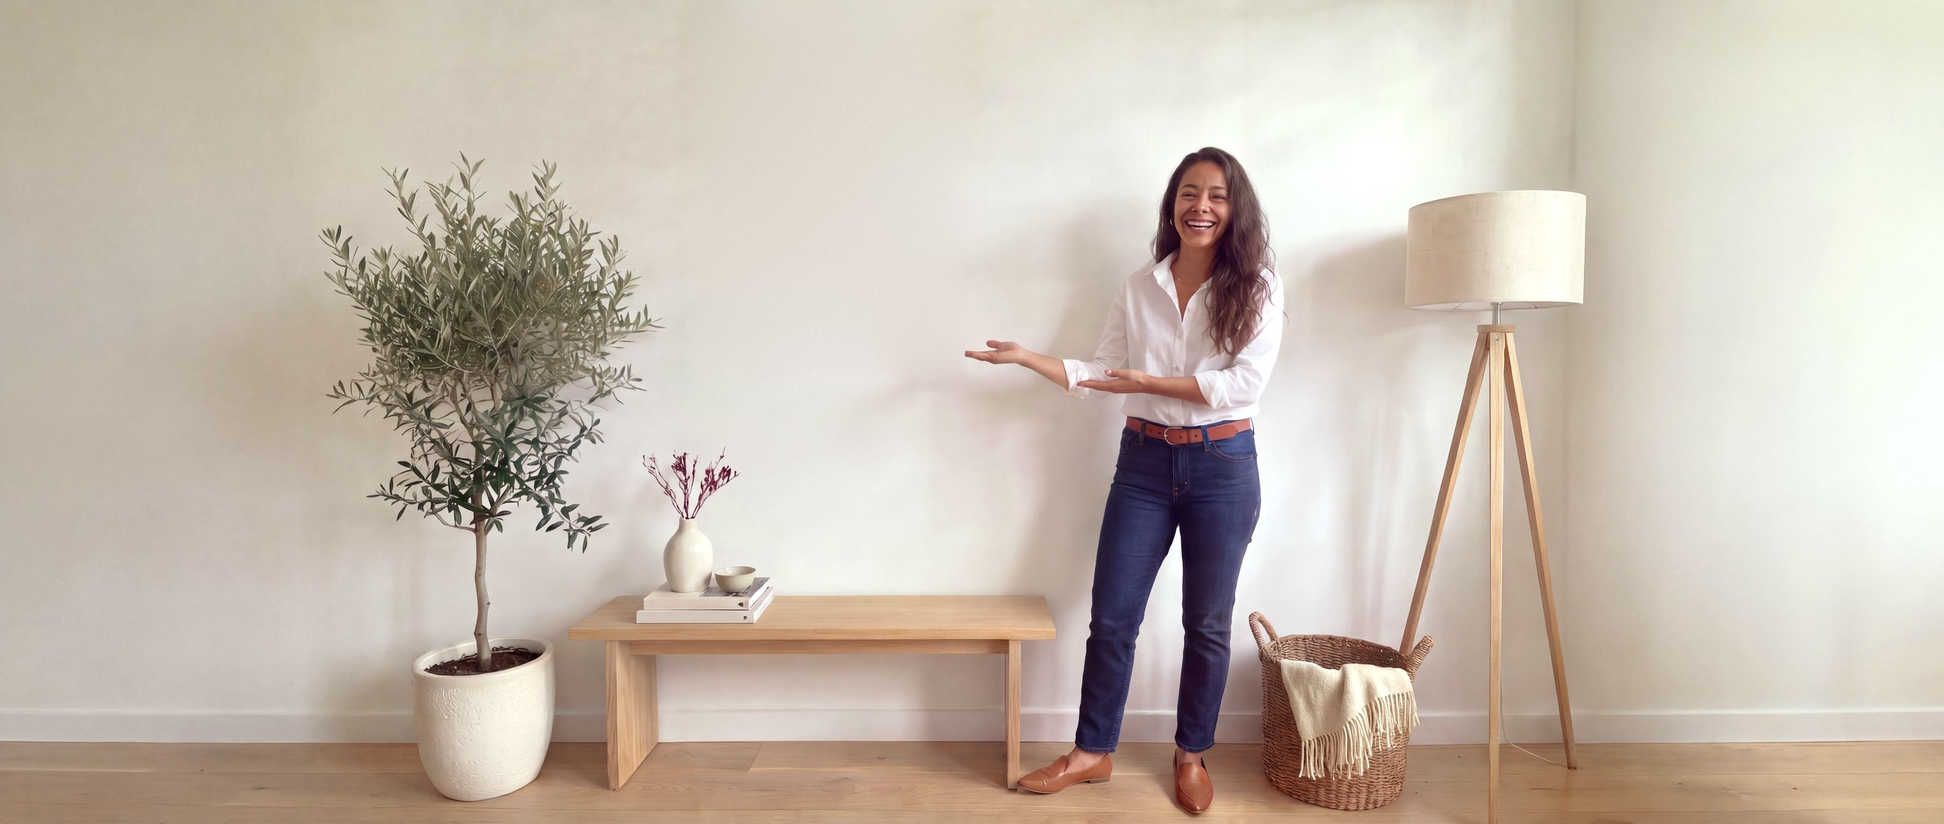
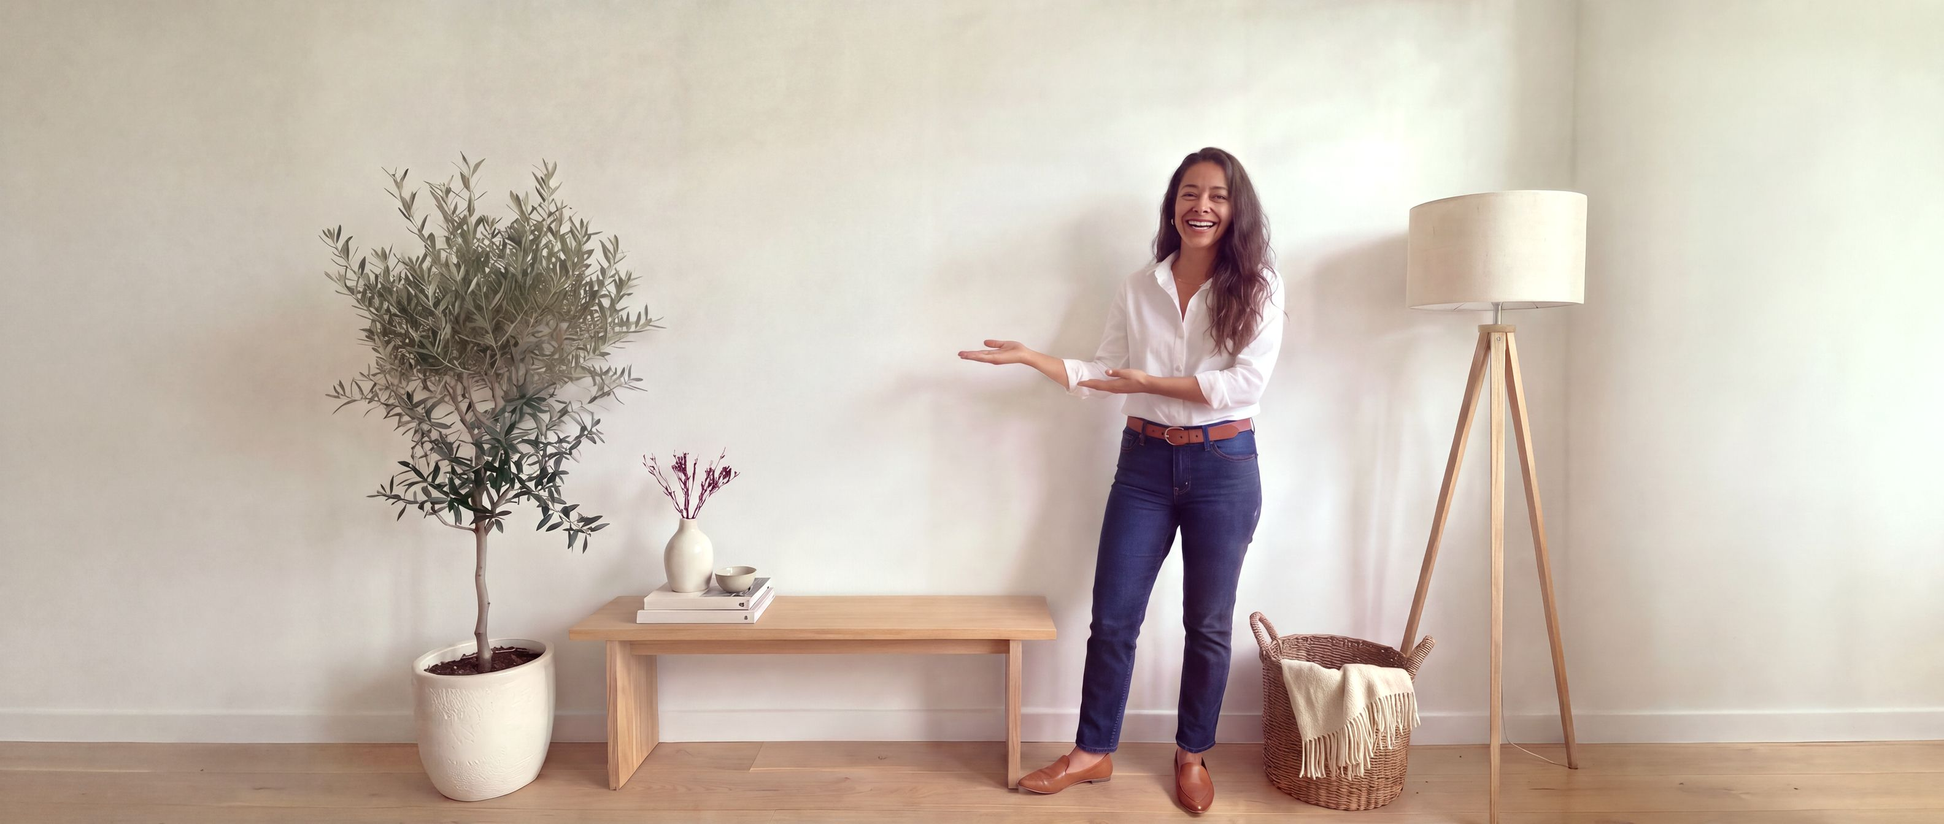
feat(fiche-3d): version 26, sa main entière devant le tableau, jour reculé
Retours de Walid sur la version 25 :

- 75 × 100 et 90 × 120 : photos refaites par Gemini (le rectangle blanc
  avait recouvert sa main avant la génération) ; recalées sur la version
  25 à 3 px près (0,25 cm), les places du tableau restent. Masques
  BiRefNet, balance, lumière et calque refaits : sa main entière passe
  devant le tableau agrandi.
- Bordure avec cadre : le plan du jour recule de 6,4 à 9 cm de haut, la
  caméra de 12 à 17 cm (« trop zoomé », « effet dessin animé ») ; tests
  ajustés (plan de 8 à 10 cm, tranche d'au moins 4,5 % de la hauteur).
- README (décision 10), tickets 07 et 12.

diff --git a/.scratch/fiche-3d/prototype/src/staging.js b/.scratch/fiche-3d/prototype/src/staging.js
@@ -44,16 +44,16 @@ const EDGE = { yaw: 38 * DEG, pitch: -6 * DEG, fill: 0.74, side: 0.8, front: 0.6
    ne se voit que dans le jour de 0,6 cm, entre la toile et la paroi du cadre, sous la lèvre qui la
    dépasse. Plan rapproché sur l'angle bas côté lumière, tableau au mur : la caméra se tient de biais
    par rapport à cet angle, `look` vers la tranche éclairée et autant vers le bas. Walid trouvait le
-   gros plan à 6 cm trop serré (10/11 : « on voit que c'est de la 3D ») : la caméra est à 12 cm, le
-   plan fait 6,4 cm de haut, et l'image de l'œuvre n'y est plus grossie au-delà de sa photo en
-   30 × 40. À 15°, la tranche du côté et celle du bas se voient sur toute leur profondeur (2 cm), soit
-   0,46 cm à l'écran, 7 % de sa hauteur ; l'optimum est à 16°, la lèvre en cache le fond au-delà de
-   18°. field : hauteur du plan à l'angle, en cm. spot : place de l'angle sur l'écran, en part de
+   gros plan à 6 cm trop serré (10/11 : « on voit que c'est de la 3D »), puis encore trop zoomé à
+   6,4 cm (version 25 : « effet dessin animé ») : le plan fait 9 cm de haut, la caméra se tient à
+   17 cm, et l'image de l'œuvre y est moins grossie que sa photo en 30 × 40. À 15°, la tranche du
+   côté et celle du bas se voient sur toute leur profondeur (2 cm), soit 0,46 cm à l'écran, 5 % de sa
+   hauteur ; l'optimum est à 16°, la lèvre en cache le fond au-delà de 18°. field : hauteur du plan à l'angle, en cm. spot : place de l'angle sur l'écran, en part de
    la demi-largeur et de la demi-hauteur depuis le milieu ; l'œuvre remplit le reste. Sur un écran
    plus large que `narrow`, l'angle revient vers le milieu, jusqu'au milieu à `wide` (largeur sur
    hauteur) : le cadre prend un côté, l'œuvre l'autre, et la caméra regarde le mur sous le même biais
    que sur un téléphone. Poser l'angle sur le côté d'un écran large la ferait tourner de 36°. */
-const GAP = { look: 15 * DEG, field: 6.4, spot: 0.3, narrow: 1.3, wide: 2.2 }
+const GAP = { look: 15 * DEG, field: 9, spot: 0.3, narrow: 1.3, wide: 2.2 }
 /* Coin du cadre : caméra au-dessus du coin bas, côté lumière. field : petit côté du plan pour un
    30 × 40, en cm ; il s'élargit un peu avec le tableau, pour garder de l'œuvre. spot : place du
    coin sur l'écran, en part de la demi-largeur et de la demi-hauteur depuis le milieu. L'œuvre et

diff --git a/.scratch/fiche-3d/prototype/tests/staging.test.js b/.scratch/fiche-3d/prototype/tests/staging.test.js
@@ -176,9 +176,10 @@ for (const aspect of [...SCREENS, DESK_ZONE]) {
       const forward = unit(sub(view.camera.target, view.camera.position))
       const turn = (Math.acos(-forward[2]) * 180) / Math.PI
       assert.ok(turn <= 32, `la caméra tourne de ${turn.toFixed(1)}° depuis le mur`)
-      // Recul demandé par Walid le 10/11 (« reculez un petit peu ») : 1,5 à 2 fois le gros plan à 3,2 cm.
+      // Recul demandé par Walid le 10/11 (« reculez un petit peu »), puis sur la version 25 (« trop
+      // zoomé », « effet dessin animé » à 6,4 cm) : environ 9 cm de haut à l'écran.
       const field = 2 * onScreen.depth * Math.tan(view.camera.fovY / 2)
-      assert.ok(field >= 4.8 && field <= 7, `plan rapproché : ${field.toFixed(1)} cm de haut à l'écran`)
+      assert.ok(field >= 8 && field <= 10, `plan rapproché : ${field.toFixed(1)} cm de haut à l'écran`)
       // Regard de biais vers la tranche éclairée et vers le bas, de 12 à 18° depuis l'angle : en deçà la
       // tranche s'aplatit, au-delà la lèvre en cache le fond (caméra à 12 cm, la perspective compte).
       const look = sub(view.camera.position, corner)
@@ -198,8 +199,9 @@ for (const aspect of [...SCREENS, DESK_ZONE]) {
         const band = gapBand(view, aspect, above)
         // Ordre de grandeur : jour 0,6 cm, lèvre 0,5 cm devant la toile -> 0,46 cm au plus vue de face.
         assert.ok(band.cm >= 0.4, `${size}, ${above} cm : ${band.cm.toFixed(2)} cm de tranche visibles`)
-        // Au moins 6,5 % de la hauteur : 24 px sur le plus petit écran (553 px visibles, rangée ouverte).
-        assert.ok(band.screen >= 0.065, `${size}, ${above} cm : la tranche ne prend que ${(band.screen * 100).toFixed(1)} % de la hauteur`)
+        // Au moins 4,5 % de la hauteur : 16 px sur le plus petit écran (rangée ouverte), le jour reste
+        // lisible avec le plan reculé à 9 cm (version 26 ; 6,5 % à 6,4 cm).
+        assert.ok(band.screen >= 0.045, `${size}, ${above} cm : la tranche ne prend que ${(band.screen * 100).toFixed(1)} % de la hauteur`)
       }
     }
     // La tranche montrée reçoit la lumière de la pièce : pas un trou noir.

diff --git a/.scratch/fiche-3d/prototype/src/poses.js b/.scratch/fiche-3d/prototype/src/poses.js
@@ -75,18 +75,18 @@ export const POSES = {
     }),
     '75x100': pose('75x100', {
       rect: [2267, 21, 878, 1198],
-      person: [3145, 479, 4184, 2652],
-      head: [3770, 479, 4135, 767],
-      overlay: [2020, 814, 3216, 1320],
-      clean: { left: 1014, right: 1104 },
+      person: [3122, 480, 4186, 2654],
+      head: [3772, 480, 4138, 768],
+      overlay: [2020, 812, 3216, 1320],
+      clean: { left: 1054, right: 1102 },
     }),
     '90x120': pose('90x120', {
       rect: [2175, 20, 1075, 1441],
-      person: [3250, 497, 4957, 2667],
-      head: [3759, 497, 4142, 785],
-      overlay: [1888, 716, 3322, 1576],
-      clean: { left: 1002, right: 1130 },
-      reach: { body: 4180, elbow: 4414, wrist: 4665 },
+      person: [3005, 497, 4961, 2667],
+      head: [3760, 497, 4146, 785],
+      overlay: [1888, 708, 3322, 1576],
+      clean: { left: 1010, right: 1126 },
+      reach: { body: 4174, elbow: 4420, wrist: 4668 },
     }),
   },
 }

diff --git a/.scratch/fiche-3d/README.md b/.scratch/fiche-3d/README.md
@@ -41,13 +41,13 @@ Ajouter un tableau à partir d'une seule image à plat, sans Photoshop ni mockup
    - Retour de Walid sur la version 14, le 09/11 : un choix s'applique (légende, prix, mise en scène) et la rangée reste ouverte, pour enchaîner les choix. Elle se ferme seulement par un toucher en dehors d'elle, ou Échap, qui ramène l'œuvre de face. Pendant ce temps, chaque mise en scène se cadre dans la zone visible au-dessus de la rangée. Valable pour la bordure (ou le contour), le cadre et la taille ; la bascule Toile | Poster n'a pas de rangée.
    - Retour de Walid sur la version 15, le 09/11 : ouvrir une rangée joue tout de suite la mise en scène de son groupe avec le choix en cours, sans attendre qu'on en change (la caméra part dès que la rangée est apparue, en 200 ms), cadrée au-dessus de la rangée : la tranche pour la bordure, la marge pour le contour, le coin pour le cadre (même avec « Aucun », là où irait le cadre), la pièce pour la taille. Choisir, toucher dehors et Échap ne changent pas. Si la 3D n'a pas encore démarré, le toucher la démarre et la mise en scène part dès qu'elle est prête, si la rangée est encore ouverte.
    - Retour de Walid sur la version 16, le 09/11 : avec un cadre, la bordure se montre là où on la voit, dans le jour de 0,6 cm de la caisse américaine, entre la toile et le cadre. Gros plan sur l'angle bas côté lumière, le tableau au mur : la tranche du côté et celle du bas s'y voient sur toute leur profondeur, environ 0,46 cm à l'écran, 14 % de sa hauteur (plan reculé le 10/11, voir plus bas). D'une bordure à l'autre, le plan ne bouge pas, seule la tranche change. Sans cadre, rien ne change ; le poster et le plan du cadre non plus. Le jour, la lèvre et le châssis sont restés tels quels ; seul le fond de la caisse passe 0,3 cm sous la toile, pour fermer à l'angle un petit jour qui laissait voir le mur (après la version 17).
-   - Retours de Walid sur la version 18, le 10/11. Avec un cadre, le plan de la bordure recule de moitié (caméra à 12 cm au lieu de 6, plan de 6,4 cm de haut) : on voit plus de cadre et de tableau, l'image n'est plus grossie au-delà de sa photo en 30 × 40, et la tranche reste lisible dans le jour (7 % de la hauteur visible au-dessus de la rangée au lieu de 14 %, soit 26 à 40 px selon l'écran). Rangée ouverte, il ne reste qu'elle : la légende touchée s'efface comme les autres, avec son filet ; plus de pulsation. Toutes reviennent à la fermeture, en fondu avec les filets, une fois l'œuvre revenue de face : pendant le retour, l'œuvre encore agrandie passerait sous elles (sauf la légende qui a le focus, après Échap). Hors du plan de face sans rangée ouverte (bascule Toile | Poster, glisser), la plaque dépolie des légendes serre leur texte.
+   - Retours de Walid sur la version 18, le 10/11. Avec un cadre, le plan de la bordure recule de moitié (caméra à 12 cm au lieu de 6, plan de 6,4 cm de haut ; puis 17 cm et 9 cm de haut en version 26, le plan à 6,4 cm restant « trop zoomé », « effet dessin animé ») : on voit plus de cadre et de tableau, l'image n'est plus grossie au-delà de sa photo en 30 × 40, et la tranche reste lisible dans le jour (7 % de la hauteur visible au-dessus de la rangée au lieu de 14 %, soit 26 à 40 px selon l'écran). Rangée ouverte, il ne reste qu'elle : la légende touchée s'efface comme les autres, avec son filet ; plus de pulsation. Toutes reviennent à la fermeture, en fondu avec les filets, une fois l'œuvre revenue de face : pendant le retour, l'œuvre encore agrandie passerait sous elles (sauf la légende qui a le focus, après Échap). Hors du plan de face sans rangée ouverte (bascule Toile | Poster, glisser), la plaque dépolie des légendes serre leur texte.
 10. Pièces : photos générées une fois par Gemini, triées par Walid, lumière réglée une fois par pièce. L'IA choisit la pièce de chaque produit. Décisions du 05/11 après le premier test :
     - la scène dépend de la taille : un 30 × 40 sur un mur étroit entre deux meubles, un 60 × 80 au-dessus d'une console, les grands formats au-dessus d'un canapé ou d'un lit ;
     - les intérieurs sont habités, pas vides : « autant un mur blanc » sinon ;
     - le tableau prend la lumière de la pièce par le calcul (méthode 1 du ticket 11), avec la tranche et l'ombre de la 3D ;
     - les pièces restent un bonus : la fiche démarre sur le mur neutre, et sort sans elles si elles n'atteignent pas le niveau voulu par Walid.
-    - Choix de Walid du 10/11 : la mise en scène de la taille quitte le grand salon, où le 30 × 40 était ridicule sur un mur immense. Une femme se tient à côté du tableau, sur un mur clair, la même femme dans une pose par taille : quatre photos générées par Gemini et validées par Walid (même mur, plinthe, parquet et appareil, 16 px/cm dans le plan du mur). Le tableau 3D se pose exactement sur le rectangle blanc qui marquait sa place, effacé des photos, avec la lumière de la photo (venue de la gauche), son ombre et sa tranche ; la cote en cm reste, la hauteur à gauche. La femme est détourée sur le PC (BiRefNet, licence MIT) : sa main passe devant le 90 × 120 et l'ombre du tableau ne tombe pas sur elle. Elle se voit toujours entière en largeur, mains comprises (retour sur la version 21) : en 90 × 120 sur téléphone, le tableau rapetisse un peu pour ça. Retours de Walid sur la version 21, pour la version 23 : à côté d'elle (qui paraissait mesurer 1,80 m), les tableaux paraissent 20 % plus grands, une seule constante, les cotes gardant les vraies mesures ; ses mains le présentent toujours au même endroit ; les photos de pose sont refaites par retouche Gemini, pièce meublée (olivier, banc avec livres et vase, lampadaire, panier), mur propre au même blanc chaud sur les quatre (le voile rose ôté) ; les feuilles, les branches et sa main passent devant le tableau agrandi ; au-dessus de la photo, et sur un bord où un objet la touche, le mur se prolonge uni, sans miroir, la photo s'y fondant ; le tableau doit sembler photographié dans la même pièce (lumière du mur à son emplacement, ses blancs jamais plus clairs que lui, contraste, couleurs, netteté et grain de la photo, trame et relief de la toile, ombre douce du côté de la sienne). Un montage du coordinateur, où la femme était détourée et posée sur une pièce neuve, a été écarté : « la fille semble voler ». Changer de taille, rangée ouverte, fond une pose dans l'autre pendant que le tableau change de taille. Choix de Walid pour la version 24 : les photos passent en 21:9 (pièce recomposée par Gemini, olivier et lampadaire entiers, mur, plinthe et parquet nus jusqu'aux bords), et sur ordinateur plus aucun bord de photo ne se voit ; le tableau d'abord, puis elle, sa main lointaine en dernier (bras ouverts du 90 × 120 : son bras se coupe sur téléphone, jamais au coude ni au poignet, et le tableau y grandit d'un tiers) ; allers et retours entre la vue de face et la Taille sans temps mort ni saut (courbe en sinus sur 1 s, la caméra part dès le toucher, plus de parquet étiré sous la photo). Retour de Walid sur la version 24 (« pas smooth » au retour : la pièce s'effaçait pendant tout le trajet, en double exposition) : un vrai travelling, la pièce reste entière pendant que la caméra avance ou recule, la femme et les meubles sortent du cadre par le mouvement ; le passage au mur de face ne prend que 250 ms, à la fin du retour et au début de l'aller, la lumière et l'ombre du tableau avec lui ; le mur de face prend la couleur du mur des photos autour du tableau, ramené au même blanc chaud sur les quatre. Les photos (1,2 Mo pour les quatre) ne se chargent qu'à la première ouverture de la Taille. Ticket 12.
+    - Choix de Walid du 10/11 : la mise en scène de la taille quitte le grand salon, où le 30 × 40 était ridicule sur un mur immense. Une femme se tient à côté du tableau, sur un mur clair, la même femme dans une pose par taille : quatre photos générées par Gemini et validées par Walid (même mur, plinthe, parquet et appareil, 16 px/cm dans le plan du mur). Le tableau 3D se pose exactement sur le rectangle blanc qui marquait sa place, effacé des photos, avec la lumière de la photo (venue de la gauche), son ombre et sa tranche ; la cote en cm reste, la hauteur à gauche. La femme est détourée sur le PC (BiRefNet, licence MIT) : sa main passe devant le 90 × 120 et l'ombre du tableau ne tombe pas sur elle. Elle se voit toujours entière en largeur, mains comprises (retour sur la version 21) : en 90 × 120 sur téléphone, le tableau rapetisse un peu pour ça. Retours de Walid sur la version 21, pour la version 23 : à côté d'elle (qui paraissait mesurer 1,80 m), les tableaux paraissent 20 % plus grands, une seule constante, les cotes gardant les vraies mesures ; ses mains le présentent toujours au même endroit ; les photos de pose sont refaites par retouche Gemini, pièce meublée (olivier, banc avec livres et vase, lampadaire, panier), mur propre au même blanc chaud sur les quatre (le voile rose ôté) ; les feuilles, les branches et sa main passent devant le tableau agrandi ; au-dessus de la photo, et sur un bord où un objet la touche, le mur se prolonge uni, sans miroir, la photo s'y fondant ; le tableau doit sembler photographié dans la même pièce (lumière du mur à son emplacement, ses blancs jamais plus clairs que lui, contraste, couleurs, netteté et grain de la photo, trame et relief de la toile, ombre douce du côté de la sienne). Un montage du coordinateur, où la femme était détourée et posée sur une pièce neuve, a été écarté : « la fille semble voler ». Changer de taille, rangée ouverte, fond une pose dans l'autre pendant que le tableau change de taille. Choix de Walid pour la version 24 : les photos passent en 21:9 (pièce recomposée par Gemini, olivier et lampadaire entiers, mur, plinthe et parquet nus jusqu'aux bords), et sur ordinateur plus aucun bord de photo ne se voit ; le tableau d'abord, puis elle, sa main lointaine en dernier (bras ouverts du 90 × 120 : son bras se coupe sur téléphone, jamais au coude ni au poignet, et le tableau y grandit d'un tiers) ; allers et retours entre la vue de face et la Taille sans temps mort ni saut (courbe en sinus sur 1 s, la caméra part dès le toucher, plus de parquet étiré sous la photo). Retour de Walid sur la version 24 (« pas smooth » au retour : la pièce s'effaçait pendant tout le trajet, en double exposition) : un vrai travelling, la pièce reste entière pendant que la caméra avance ou recule, la femme et les meubles sortent du cadre par le mouvement ; le passage au mur de face ne prend que 250 ms, à la fin du retour et au début de l'aller, la lumière et l'ombre du tableau avec lui ; le mur de face prend la couleur du mur des photos autour du tableau, ramené au même blanc chaud sur les quatre (validé par Walid). Version 26 : en 75 × 100 et 90 × 120, sa main entière passe devant le tableau agrandi (photos refaites, sa main n'est plus sous le rectangle blanc). Les photos (1,2 Mo pour les quatre) ne se chargent qu'à la première ouverture de la Taille. Ticket 12.
 11. Photos automatiques : le moteur rend 5 ou 6 vraies photos par produit (de face sur fond clair, de trois-quarts avec la tranche, gros plan de la matière, coin du cadre, dans la pièce), décrites par Claude et visibles sous la 3D dans une bande « Sous tous les angles ». Une image par cadre pour les variantes.
 12. Publisher : une image donne la toile et le poster par défaut (carré : toile seule). L'IA propose la collection et la pièce ; Walid valide sur un seul écran, puis un clic publie.
 13. Rendus : sur le serveur actuel, à la demande, un à la fois, jamais en même temps que le studio des posters personnalisés. On n'agrandit le serveur que si la mesure l'exige. La base MySQL sert encore : on la garde.

diff --git a/.scratch/fiche-3d/issues/12-vue-piece-changement-taille.md b/.scratch/fiche-3d/issues/12-vue-piece-changement-taille.md
@@ -120,3 +120,15 @@ Walid : au retour de face depuis la Taille, encore « pas smooth », « à parti
 **Vérifié** : 219 tests, dont, image par image à 60 images/s, aller, retour et changement de taille, 4 tailles × 4 zones : la pièce entière ou absente sauf pendant le passage de 250 ms, les poses toujours entières, ni pause ni saut. Sur la vraie page : le contrôle image par image du coordinateur (pièce, pauses, sauts) sur les quatre formats, et un vrai retour relevé image par image (aucun flou d'arrière-plan visible) ; images fixes du retour et de l'aller du 60 × 80 en 390 × 844 (à 0, 200, 400, 600, 750, 850 et 1000 ms). Captures des quatre tailles sur les quatre formats, console vide ; les suites de non-régression repassent.
 
 **Pas vérifié** : un vrai téléphone (fluidité), Safari, le lecteur d'Artifacts de claude.ai.
+
+### Version 26 : sa main entière devant le tableau (retour de Walid sur la version 25, 10/11)
+
+Walid : sa main est coupée par le tableau en 75 × 100 et en 90 × 120. Cause, trouvée par le coordinateur : dans les photos 21:9, le rectangle blanc avait été collé par-dessus sa main avant la génération (en 75 × 100, ses doigts s'arrêtaient à son bord ; en 90 × 120, toute la main était dessous) : il n'y avait plus de main à détourer. Il a fait refaire ces deux photos par Gemini : sa main droite complète (doigts entiers en 75 × 100 ; main ouverte, doigts écartés, devant le mur en 90 × 120), le rectangle retiré (mur nu), tout le reste identique.
+
+**Fait :**
+- Recalage des deux photos refaites sur celles de la version 25 (corrélation de phase par régions) : olivier, banc et vase à 1 px près, panier et lampadaire à 3 px, son corps à 3 px, soit 0,25 cm au plus : rien n'a glissé. Les places du tableau de la version 25 restent (`rect` de `poses.js`) ; le préparateur, sans rectangle à effacer, garde le mur de Gemini.
+- Masques BiRefNet refaits, balance des blancs, lumière du mur et calque de ce qui passe devant le tableau : sa main y est entière (90 × 120 : elle commence 245 px plus à gauche, devant le tableau agrandi ; 75 × 100 : les doigts dépassent le bord du rectangle d'avant).
+
+**Vérifié** : 219 tests ; 96 contrôles sur les quatre formats, console vide ; gros plans de sa main devant le 75 × 100 et le 90 × 120 en 390 × 844 et en 1440 × 820 (et en 375 × 667, 375 × 553) : doigts entiers, bords propres, aucune trace du rectangle. Le plan du jour à 9 cm (ticket 07) : 100 contrôles des gros plans sur les quatre formats, captures ; les autres suites de non-régression repassent (50, 82, 181 et 58 contrôles).
+
+**Pas vérifié** : un vrai téléphone, Safari, le lecteur d'Artifacts de claude.ai.

diff --git a/.scratch/fiche-3d/issues/07-nouvelle-fiche-toile-3d.md b/.scratch/fiche-3d/issues/07-nouvelle-fiche-toile-3d.md
@@ -284,6 +284,7 @@ Walid : le 30 × 40 était ridicule sur un mur immense. La mise en scène de la 
 - Version 23 (retours de Walid sur la version 21) : les tableaux paraissent 20 % plus grands à côté d'elle, une constante (`POSES.scale`) ; le tableau semble photographié dans la pièce (lumière du mur, contraste, couleurs, netteté et grain de la photo, trame et relief de la toile, ombre douce du côté de la sienne) ; photos de pose refaites, pièce meublée (olivier, banc, vase, lampadaire, panier), mur au même blanc chaud sur les quatre ; les feuilles, les branches et sa main passent devant le tableau agrandi ; le mur se prolonge uni au-dessus et sur un bord où un objet touche la photo. Le reste de la fiche ne change pas : ces réglages ne jouent que dans la pose de la taille. Détail dans le ticket 12.
 - Version 24 (choix de Walid) : photos de pose en 21:9, plus aucun bord de photo sur ordinateur ; le 90 × 120 plus grand sur téléphone (sa main lointaine en dernier) ; toutes les mises en scène glissent en sinus sur 1 s et partent dès le toucher, rangée comprise (jusqu'ici, la caméra attendait les 200 ms du fondu de la rangée) ; plus de parquet étiré sous la photo. Détail dans le ticket 12.
 - Version 25 (retour de Walid sur la 24) : un vrai travelling entre la vue de face et la Taille, la pièce entière pendant le trajet, un passage de 250 ms au mur de face ; le mur de face, partout, prend la couleur du mur des photos de pose autour du tableau (blanc chaud, 223, 217, 207, au lieu du gris clair 233, 233, 232). Détail dans le ticket 12.
+- Version 26 (retours de Walid sur la 25) : bordure avec cadre, le plan du jour recule de 6,4 à 9 cm de haut (caméra de 12 à 17 cm) : moins grossi, plus d'« effet dessin animé » ; la tranche dans le jour garde 4,5 % au moins de la hauteur visible. Sa main entière devant le tableau en 75 × 100 et 90 × 120 (ticket 12).
 
 **Vérifié** : 217 tests ; 76 contrôles de la Taille sur les quatre formats ; captures de chaque taille, du fondu et de la main ; les contrôles généraux, de la rangée ouverte, de la mise en scène à l'ouverture, des légendes et du jour repassent (détail dans le ticket 12).
 
